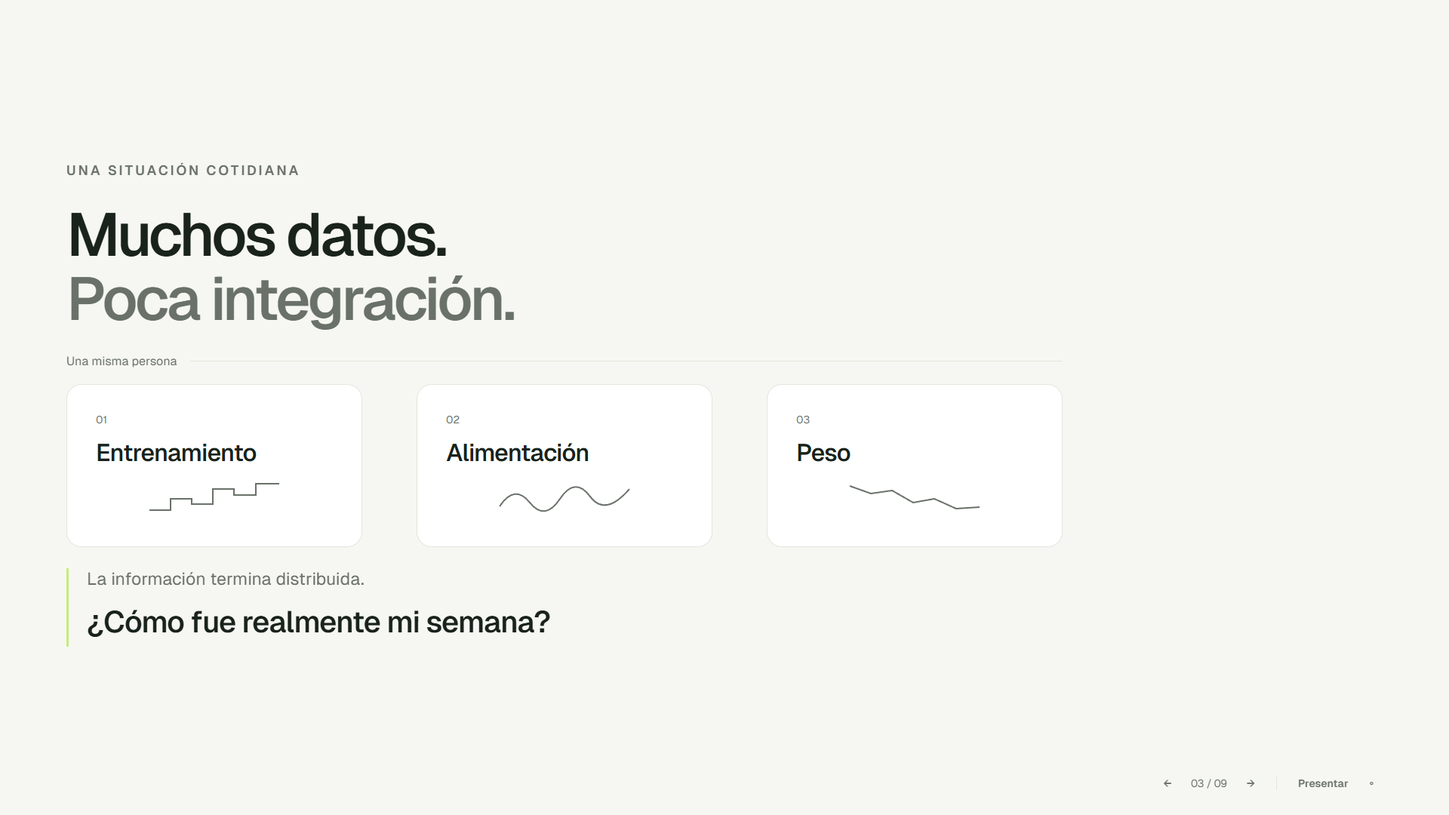
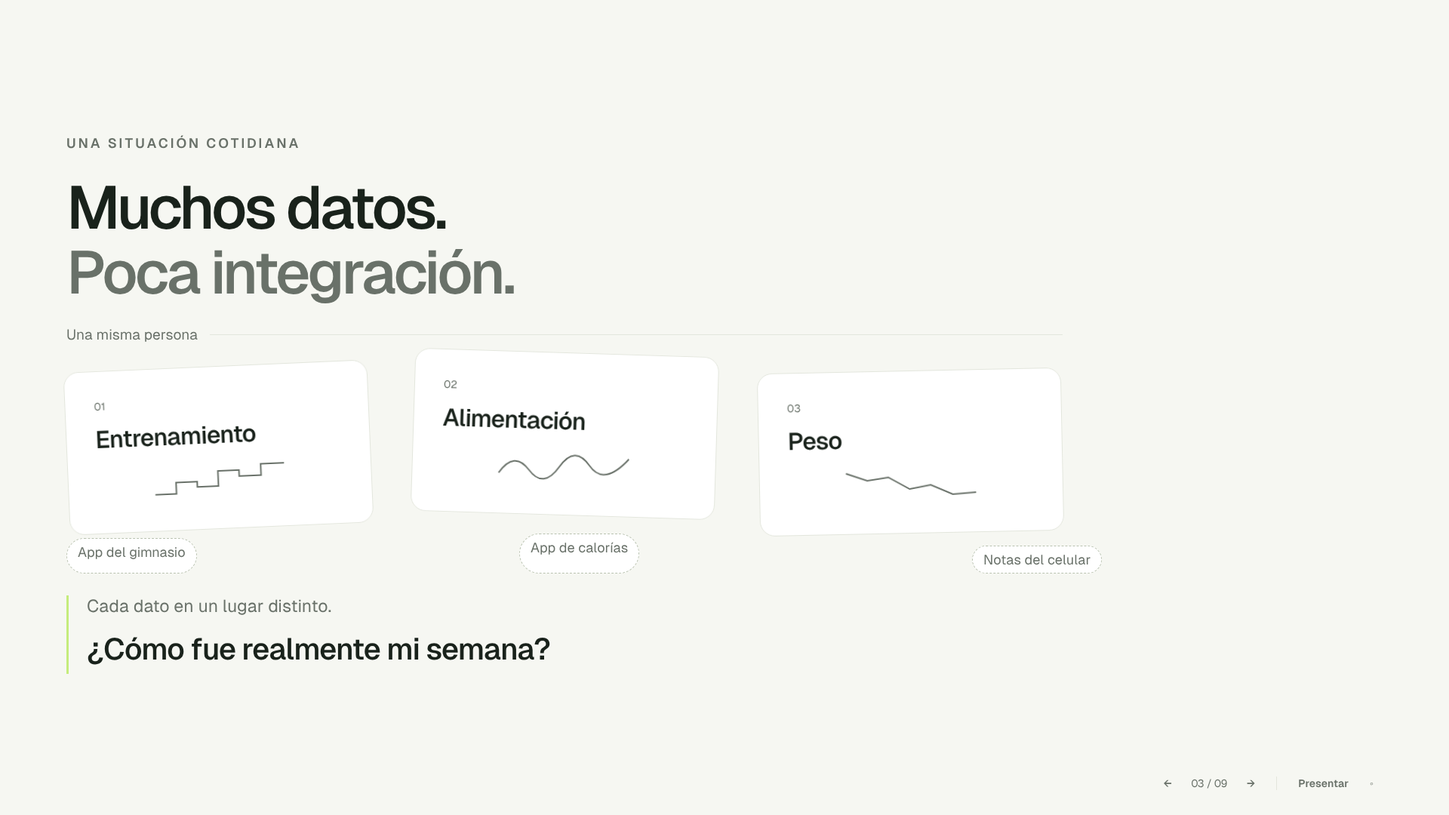
feat(presentation): sell the product with a positive pitch and storytelling motion
- Problem: scattered cards, each in a different app.
- Market: separate apps visually connect in Formance.
- Positioning: 'para vos y para quien te acompaña' instead of a 'Formance no'
  card; limits stay in the notes for questions.
- New slide 07 'Tu semana, en 10 segundos': animated replica of the real
  weekly reading with the demo account numbers.
- Demo: current captures with demo data; closing 'Registrá. Entendé. Mejorá.'
- Scene transition no longer overlaps texts; every sequence is finite and
  reduced motion shows everything at rest. Larger support text for projectors.

Claude-Session: https://claude.ai/code/session_01MCY7Nt7mijxqsgiku96ca1

diff --git a/src/presentation/marketing-deck.tsx b/src/presentation/marketing-deck.tsx
@@ -1,8 +1,9 @@
-import type { ReactNode } from 'react';
+import type { CSSProperties, ReactNode } from 'react';
 import { BigStatement, ScreenshotFrame } from '@/components/presentation/Primitives';
 import { MotionReveal } from '@/components/presentation/Motion';
 import { DemoAccess } from '@/components/presentation/DemoAccess';
 import { Domains } from './Domains';
+import { WeekGlanceDemo } from './WeekGlanceDemo';
 import type { PresentationSlide } from './types';
 
 export const marketingBlocks = [
@@ -19,10 +20,10 @@ function Pitch({ id, label, title, children }: { id: string; label: string; titl
 
 const team = ['Hernán Zamora', 'Matías Duarte Polanco', 'Diego Caminos Picco', 'Nahuel Isaguirre'];
 const productViews = [
-  ['01-perfil-objetivo.png', 'Perfil'],
+  ['01-perfil-objetivo.png', 'Inicio'],
+  ['02-entrenamiento.png', 'Entrenamiento'],
   ['03-alimentacion-ia.png', 'Alimentación'],
-  ['04-peso-progreso.png', 'Progreso'],
-  ['05-reporte-ia.png', 'Resumen semanal'],
+  ['04-peso-progreso.png', 'Peso'],
 ];
 
 // Manual rehearsal estimates only. Demo takes 8–10 minutes outside the deck.
@@ -39,47 +40,52 @@ export const marketingSlides: PresentationSlide[] = [
   },
   {
     id: 'problema', section: marketingBlocks[0].title, title: 'Muchos datos. Poca integración.', speaker: 'Hernán', durationSeconds: 85,
-    notes: ['Una persona puede usar varias herramientas: una para entrenamiento, otra para comidas y otra para peso. El problema no es la falta de aplicaciones, sino la información distribuida.', 'Contar una situación cotidiana: al terminar la semana, tiene datos, pero debe reconstruir qué pasó en cada lugar.', 'La pregunta que buscamos responder es: ¿cómo fue realmente mi semana?', 'El problema existe, pero también existen muchas herramientas que resuelven partes de él. Nahuel les muestra qué encontramos.'],
-    render: <Pitch id="problema" label="UNA SITUACIÓN COTIDIANA" title={<>Muchos datos.<br /><span>Poca integración.</span></>}><Domains /><MotionReveal order={7} className="p-pitch-question"><span>La información termina distribuida.</span><p>¿Cómo fue realmente mi semana?</p></MotionReveal></Pitch>,
+    notes: ['Una persona que entrena en serio suele usar una app para el gimnasio, otra para las calorías y anota el peso en el celular. El problema no es la falta de aplicaciones: la información queda desparramada.', 'Contar una situación cotidiana: al terminar la semana tiene datos, pero tiene que reconstruir qué pasó en cada lugar.', 'La pregunta que buscamos responder es: ¿cómo fue realmente mi semana?', 'El mercado ya resuelve partes de esto. Nahuel les muestra qué encontramos.'],
+    render: <Pitch id="problema" label="UNA SITUACIÓN COTIDIANA" title={<>Muchos datos.<br /><span>Poca integración.</span></>}><div className="p-scattered"><Domains /><div className="p-scattered-sources" aria-hidden="true"><span>App del gimnasio</span><span>App de calorías</span><span>Notas del celular</span></div></div><MotionReveal order={7} className="p-pitch-question"><span>Cada dato en un lugar distinto.</span><p>¿Cómo fue realmente mi semana?</p></MotionReveal></Pitch>,
   },
+
   {
-    id: 'mercado', section: marketingBlocks[1].title, title: 'Buenas herramientas. Experiencias separadas.', speaker: 'Nahuel', durationSeconds: 75,
-    notes: ['Reconocer soluciones valiosas: MyFitnessPal, Fitia, YAZIO y Lifesum como referencias en nutrición/peso; Hevy y Strong en entrenamiento.', 'Son ejemplos de foco de experiencia, no categorías excluyentes ni una auditoría actual de todas sus funciones. No afirmar que no existen productos integrados.', 'No mencionar precios, rankings ni funciones no verificadas. No mostrar matrices.', 'La oportunidad que elegimos es conectar el seguimiento personal en una experiencia simple.'],
-    render: <Pitch id="mercado" label="EL MERCADO YA RESUELVE PARTES DEL PROBLEMA" title={<>Buenas herramientas.<br /><span>Experiencias separadas.</span></>}><div className="p-pitch-market"><div className="p-market-zone p-card"><span className="p-domain-number">01</span><h2>Nutrición / peso</h2><div className="p-pitch-brands"><span>MyFitnessPal</span><span>Fitia</span><span>YAZIO</span><span>Lifesum</span></div></div><div className="p-market-zone p-card"><span className="p-domain-number">02</span><h2>Entrenamiento</h2><div className="p-pitch-brands"><span>Hevy</span><span>Strong</span></div></div></div><MotionReveal order={8} className="p-pitch-opportunity"><span aria-hidden="true">↗</span><p>La oportunidad estaba en conectarlos.</p></MotionReveal></Pitch>,
+    id: 'mercado', section: marketingBlocks[1].title, title: 'Buenas apps. Cada una por su lado.', speaker: 'Nahuel', durationSeconds: 75,
+    notes: ['Reconocer soluciones valiosas: MyFitnessPal, Fitia, YAZIO y Lifesum en nutrición y peso; Hevy y Strong en entrenamiento. Son referencias de foco, no una auditoría de todas sus funciones.', 'Cada una resuelve muy bien su parte. Lo que falta es una vista que conecte las tres y te diga cómo fue tu semana.', 'No mencionar precios, rankings ni funciones no verificadas. No decir que no existen productos integrados.', 'Ahí está nuestra oportunidad: conectar el seguimiento en una experiencia simple.'],
+    render: <Pitch id="mercado" label="EL MERCADO YA RESUELVE PARTES DEL PROBLEMA" title={<>Buenas apps.<br /><span>Cada una por su lado.</span></>}><div className="p-islands"><div className="p-island p-card"><span className="p-domain-number">01</span><h2>Nutrición y peso</h2><div className="p-pitch-brands"><span>MyFitnessPal</span><span>Fitia</span><span>YAZIO</span><span>Lifesum</span></div></div><div className="p-island-link" aria-hidden="true"><i /><i /></div><div className="p-island-hub"><img src="/brand/formance.svg" alt="Formance" /><small>conecta las tres</small></div><div className="p-island-link is-right" aria-hidden="true"><i /><i /></div><div className="p-island p-card"><span className="p-domain-number">02</span><h2>Entrenamiento</h2><div className="p-pitch-brands"><span>Hevy</span><span>Strong</span></div></div></div><MotionReveal order={8} className="p-pitch-opportunity"><span aria-hidden="true">↗</span><p>La oportunidad: una sola vista de tu semana.</p></MotionReveal></Pitch>,
   },
+
   {
-    id: 'posicionamiento', section: marketingBlocks[1].title, title: 'Formance acompaña. No reemplaza.', speaker: 'Nahuel', durationSeconds: 60,
-    notes: ['Explicar en lenguaje cotidiano: Formance organiza registros y ayuda a interpretarlos. No diagnostica, prescribe ni reemplaza nutricionistas, entrenadores o médicos.', 'Los profesionales mantienen su lugar; el usuario llega con información organizada.', 'Con esa oportunidad definida, diseñamos una experiencia mucho más simple.', 'Ahí encontramos nuestra oportunidad: no reemplazar esas herramientas ni profesionales, sino integrar mejor la experiencia. Diego les muestra la propuesta.'],
-    render: <Pitch id="posicionamiento" label="EL LUGAR DE FORMANCE" title={<>Formance acompaña.<br /><span>No reemplaza.</span></>}><div className="p-pitch-care p-motion-stagger"><span>Vos</span><div className="p-pitch-care-brand"><img src="/brand/formance.svg" alt="Formance" /><small>Tu información, organizada</small></div><span>Profesionales</span></div><div className="p-pitch-boundaries p-motion-stagger"><div className="p-card p-pitch-yes"><h2>Formance sí</h2><p>Organiza y centraliza.<br />Muestra evolución.<br />Ayuda a interpretar registros.</p></div><div className="p-card"><h2>Formance no</h2><p>Diagnostica ni prescribe.<br />Reemplaza nutricionistas,<br />entrenadores o médicos.</p></div></div><MotionReveal order={8} className="p-pitch-footnote">Tecnología como herramienta de seguimiento, no como sustituto profesional.</MotionReveal></Pitch>,
+    id: 'posicionamiento', section: marketingBlocks[1].title, title: 'Tu información, organizada. Para vos y para quien te acompaña.', speaker: 'Nahuel', durationSeconds: 60,
+    notes: ['Formance ordena lo que ya registrás y te devuelve una lectura clara de tu semana. Si trabajás con un entrenador o nutricionista, llegás a la consulta con todo resumido.', 'Mensaje positivo: acompaña tu proceso. Si preguntan por límites: Formance no diagnostica, no prescribe ni reemplaza a nutricionistas, entrenadores o médicos; organiza registros y ayuda a interpretarlos.', 'Con esa oportunidad definida, diseñamos una experiencia mucho más simple. Diego les muestra la propuesta.'],
+    render: <Pitch id="posicionamiento" label="EL LUGAR DE FORMANCE" title={<>Tu información, organizada.<br /><span>Para vos y para quien te acompaña.</span></>}><div className="p-care-flow"><div className="p-care-node p-motion-step" style={{ '--step': 0 } as CSSProperties}><span>01</span><strong>Vos</strong><small>Registrás lo que hacés y comés</small></div><i className="p-care-arrow" style={{ '--step': 1 } as CSSProperties} aria-hidden="true" /><div className="p-care-node is-brand p-motion-step" style={{ '--step': 2 } as CSSProperties}><img src="/brand/formance.svg" alt="Formance" /><small>Ordena todo y te muestra tu semana</small></div><i className="p-care-arrow" style={{ '--step': 3 } as CSSProperties} aria-hidden="true" /><div className="p-care-node p-motion-step" style={{ '--step': 4 } as CSSProperties}><span>02</span><strong>Tu entrenador o nutricionista</strong><small>Recibe tu progreso resumido</small></div></div><MotionReveal order={8} className="p-pitch-footnote">Formance acompaña tu proceso: suma claridad, no reemplaza a nadie.</MotionReveal></Pitch>,
   },
+
   {
     id: 'propuesta', section: marketingBlocks[2].title, title: 'Todo tu progreso. En un solo recorrido.', speaker: 'Diego', durationSeconds: 80,
     notes: ['Partimos del perfil y objetivo. Entrenamiento, alimentación y peso se registran en el mismo lugar y se reúnen en el resumen semanal.', 'El apoyo de IA facilita la interpretación. No es el único diferencial; el valor está en la continuidad del recorrido.', 'No hablar de TO-BE, requerimientos, backend ni UML. Contar qué puede hacer una persona desde su punto de partida.', 'Esa idea se convirtió en una experiencia concreta. Matías les muestra cómo la pensamos desde el usuario.'],
-    render: <Pitch id="propuesta" label="LA PROPUESTA" title={<>Todo tu progreso.<br /><span>En un solo recorrido.</span></>}><MotionReveal order={2} className="p-pitch-start"><span>Tu punto de partida</span><strong>Perfil y objetivo</strong></MotionReveal><Domains integrated /><MotionReveal order={8} className="p-pitch-summary"><div><span className="p-domain-number">TU SEMANA, EN PERSPECTIVA</span><h2>Resumen semanal</h2></div><span className="p-pitch-support">+ Apoyo de IA</span></MotionReveal></Pitch>,
+    render: <Pitch id="propuesta" label="LA PROPUESTA" title={<>Todo tu progreso.<br /><span>En un solo recorrido.</span></>}><MotionReveal order={2} className="p-pitch-start"><span>Tu punto de partida</span><strong>Perfil y objetivo</strong></MotionReveal><Domains integrated /><MotionReveal order={8} className="p-pitch-summary"><div><span className="p-domain-number">TODO SE JUNTA EN</span><h2>Tu semana, en 10 segundos</h2></div><span className="p-pitch-support">+ una IA que te lo explica</span></MotionReveal></Pitch>,
   },
   {
-    id: 'experiencia', section: marketingBlocks[2].title, title: 'Menos fricción. Más contexto.', speaker: 'Matías', durationSeconds: 65,
-    notes: ['Tres pilares: registrar lo que realmente hiciste; alimentación manual o asistida por fotografía; peso, resumen y análisis en un mismo recorrido.', 'En la foto: la herramienta propone, vos revisás y confirmás. La carga manual siempre está disponible.', 'Los datos están asociados a la cuenta del usuario. No prometer exportaciones, cifrado o permisos que el producto no implemente.', 'Preparar la demo con una historia de uso; no volver a enumerar todas las funciones.'],
-    render: <Pitch id="experiencia" label="PENSADO DESDE EL USUARIO" title={<>Menos fricción.<br /><span>Más contexto.</span></>}><div className="p-pitch-pillars p-motion-stagger">{[['01', 'Entrenamiento', 'Registrar lo que realmente hiciste.'], ['02', 'Alimentación', 'Manual o asistida por fotografía.'], ['03', 'Progreso', 'Peso + resumen semanal + análisis.']].map(([number, title, copy]) => <div className="p-card" key={title}><span className="p-domain-number">{number}</span><h2>{title}</h2><p>{copy}</p></div>)}</div><div className="p-pitch-rules p-motion-stagger"><p>IA propone → vos confirmás</p><p>Los datos siguen siendo tuyos</p><p>Siempre existe carga manual</p></div></Pitch>,
+    id: 'experiencia', section: marketingBlocks[2].title, title: 'Tu semana, en 10 segundos.', speaker: 'Matías', durationSeconds: 65,
+    notes: ['Este es el corazón del producto. Al abrir tus reportes ves en segundos qué pasó: si cumpliste tu rutina, si comiste en objetivo y cómo se movió tu peso.', 'Abajo, lo que hiciste bien y dónde mejorar, con un solo foco para la semana siguiente. Si querés más detalle, está a un toque; no es lo primero que ves.', 'Registrar es simple: manual o con una foto. La IA propone y vos confirmás; los números los calcula el sistema con tus registros.', 'Los datos de esta slide son los de la cuenta de demostración que van a ver en vivo. Preparar el pase a la demo.'],
+    render: <Pitch id="experiencia" label="LO QUE VE CADA USUARIO" title={<>Tu semana,<br /><span>en 10 segundos.</span></>}><WeekGlanceDemo /><div className="p-pitch-rules p-motion-stagger"><p>Registro manual o con una foto</p><p>La IA propone, vos confirmás</p><p>Calculado con tus propios datos</p></div></Pitch>,
   },
+
   {
     id: 'demo', section: marketingBlocks[3].title, title: 'No quedó en una idea. Lo construimos.', speaker: 'Matías', handoffTo: 'Hernán', durationSeconds: 20,
     notes: [
-      'Traspaso Matías → Hernán. Hasta acá les mostramos la propuesta. Ahora Hernán les va a mostrar el producto funcionando.',
+      'Traspaso Matías → Hernán. Lo que acaban de ver no es un diseño: es la app real. Hernán les muestra Formance funcionando.',
       'Y lo más importante es que no quedó solamente en una propuesta. Ahora Hernán les muestra Formance funcionando.',
       'HERNÁN · DEMO CENTRAL · 8–10 minutos, fuera del contador de slides. La slide permanece en demo hasta volver y avanzar manualmente al cierre.',
       'FLOW 1 · 1–2 min. Cuenta nueva previamente verificada. Mostrar ingreso/registro sin depender de verificar correo en vivo; onboarding con edad, altura, peso, objetivo y actividad; referencia nutricional y pantalla inicial. Este es el punto de partida de cualquier usuario.',
       'FLOW 2 · 3–4 min. Cambiar a cuenta preparada con historia: planificación, sesión, series, repeticiones y carga. Luego diario, calorías/macros y alimentos. Foto: mostrar un resultado ya guardado. Gemini estima → usuario revisa → usuario confirma. No generar ni consumir cupo para ensayar.',
       'PROGRESO · 1 min. Peso, gráfico e historial. Los registros empiezan a formar una evolución, sin interpretar médicamente los cambios.',
-      'RESUMEN · 2–3 min, momento fuerte. Sesiones, series, promedios de alimentación, peso y comparación del reporte. El Balance semanal actual muestra tarjetas, gráficos, Para revisar y Tu próximo paso; abrir el detalle ya guardado para resumen, patrones y aspectos a revisar. Los cálculos los realiza el sistema; Gemini interpreta datos estructurados. Consultar solo resultados existentes y evitar generaciones nuevas.',
-      'No abrir código, consolas, logs, despliegues, respuestas API ni Postman salvo pregunta. No usar datos personales reales. Las capturas son registros reales de una versión anterior; el Balance semanal ya fue rediseñado. Si falla la demo, usar la galería sin llamadas externas.',
+      'RESUMEN · 2–3 min, momento fuerte. Empezar en Mi resumen (hoy y esta semana) y pasar a Reportes: semana del 2/11 = la mejor (4/4, récords, −0,4 kg). Abrir el calendario de semanas y mostrar la del 19/10 en naranja (viaje). En Más detalle: Resumen del mes de octubre y el Análisis escrito ya generado. Los cálculos los realiza el sistema; Gemini interpreta datos estructurados y las notas. Usar análisis ya guardados para no gastar cupo.',
+      'No abrir código, consolas, logs, despliegues, respuestas API ni Postman salvo pregunta. La cuenta usa datos de demostración. Las capturas de respaldo son de la versión actual con esos mismos datos: si falla la demo, usar la galería sin llamadas externas.',
       'Volver a esta pestaña y avanzar al cierre. No hay auto-advance ni temporizador visible. Reservar 2 min de cierre y 2 min de preguntas: alrededor de 20 min junto con 7 min de introducción y 9 min de demo.',
     ],
-    render: <div className="p-pitch p-pitch-demo"><div className="p-pitch-demo-copy"><p className="p-kicker">EL PRODUCTO, FUNCIONANDO</p><BigStatement id="demo">No quedó<br />en una idea.<br /><span>Lo construimos.</span></BigStatement><DemoAccess /></div><div className="p-pitch-product"><MotionReveal order={3} className="p-pitch-product-main"><ScreenshotFrame src="/presentation/demo/02-entrenamiento.png" alt="Vista real de una sesión de entrenamiento en Formance" browser fit="cover" position="top" /><span>Entrenamiento</span></MotionReveal><div className="p-pitch-product-grid p-motion-stagger">{productViews.map(([file, label]) => <figure key={file}><img src={`/presentation/demo/${file}`} alt={`Captura real de Formance: ${label}`} /><figcaption>{label}</figcaption></figure>)}</div></div></div>,
+    render: <div className="p-pitch p-pitch-demo"><div className="p-pitch-demo-copy"><p className="p-kicker">EL PRODUCTO, FUNCIONANDO</p><BigStatement id="demo">No quedó<br />en una idea.<br /><span>Lo construimos.</span></BigStatement><DemoAccess /></div><div className="p-pitch-product"><MotionReveal order={3} className="p-pitch-product-main"><ScreenshotFrame src="/presentation/demo/05-reporte-ia.png" alt="Formance: tu semana en 10 segundos" browser fit="cover" position="top" /><span>Tu semana en 10 segundos</span></MotionReveal><div className="p-pitch-product-grid p-motion-stagger">{productViews.map(([file, label]) => <figure key={file}><img src={`/presentation/demo/${file}`} alt={`Captura de Formance con datos de demostración: ${label}`} /><figcaption>{label}</figcaption></figure>)}</div></div></div>,
   },
   {
-    id: 'cierre', section: marketingBlocks[4].title, title: '¿Logramos el objetivo?', speaker: 'Hernán', theme: 'dark', durationSeconds: 120,
-    notes: ['Después de la demo, responder al objetivo con lo que acabamos de mostrar, sin recapitular el documento.', 'Sí: transformamos registros aislados en una experiencia integrada. Centralizar, acompañar y visualizar progreso.', 'Formance no busca reemplazar cómo entrenamos o quién nos acompaña. Busca que entendamos mejor la información que ya generamos.', 'Cerrar en unos 2 minutos y abrir preguntas. Si preguntan por tecnología, requerimientos o proceso, acceder al backup desde /presentacion/mapa o /presentacion/backup; no forma parte del contador principal.'],
-    render: <><img className="p-closing-watermark" src="/brand/isotype.svg" alt="" aria-hidden="true" /><Pitch id="cierre" label="LO QUE ACABAMOS DE VER" title={<>¿Logramos<br /><span>el objetivo?</span></>}><MotionReveal order={4} className="p-pitch-answer"><p><strong>Sí:</strong> transformamos registros aislados<br />en una experiencia integrada.</p></MotionReveal><div className="p-pitch-closing-pillars p-motion-stagger"><p>Centralizar</p><p>Acompañar</p><p>Visualizar progreso</p></div><MotionReveal order={7} className="p-pitch-closing-copy">Formance no busca reemplazar cómo entrenamos o quién nos acompaña.<br />Busca que entendamos mejor la información que ya generamos.</MotionReveal><MotionReveal order={8} className="p-pitch-thanks"><img src="/brand/formance-white.svg" alt="Formance" /><p>Gracias. <span>¿Preguntas?</span></p></MotionReveal></Pitch></>,
+    id: 'cierre', section: marketingBlocks[4].title, title: 'Registrá. Entendé. Mejorá.', speaker: 'Hernán', theme: 'dark', durationSeconds: 120,
+    notes: ['Después de la demo, responder al objetivo con lo que acabamos de mostrar, sin recapitular el documento.', 'Sí: transformamos registros aislados en una experiencia integrada. Todo en un lugar, tu semana en 10 segundos y tu progreso a la vista.', 'Formance no busca reemplazar cómo entrenamos o quién nos acompaña. Busca que entendamos mejor la información que ya generamos.', 'Cerrar en unos 2 minutos y abrir preguntas. Si preguntan por tecnología, requerimientos o proceso, acceder al backup desde /presentacion/mapa o /presentacion/backup; no forma parte del contador principal.'],
+    render: <><img className="p-closing-watermark" src="/brand/isotype.svg" alt="" aria-hidden="true" /><Pitch id="cierre" label="LO QUE ACABAMOS DE VER" title={<>Registrá. Entendé.<br /><span>Mejorá.</span></>}><MotionReveal order={4} className="p-pitch-answer"><p><strong>Objetivo cumplido:</strong> transformamos registros aislados<br />en una experiencia integrada.</p></MotionReveal><div className="p-pitch-closing-pillars p-motion-stagger"><p>Todo en un lugar</p><p>Tu semana en 10 segundos</p><p>Tu progreso, a la vista</p></div><MotionReveal order={7} className="p-pitch-closing-copy">Para que entiendas mejor la información que ya generás, semana a semana.</MotionReveal><MotionReveal order={8} className="p-pitch-thanks"><img src="/brand/formance-white.svg" alt="Formance" /><p>Gracias. <span>¿Preguntas?</span></p></MotionReveal></Pitch></>,
   },
+
 ];

diff --git a/src/presentation/marketing-deck.css b/src/presentation/marketing-deck.css
@@ -214,3 +214,141 @@
 .p-thumbnail-stage .p-pitch-market,.p-thumbnail-stage .p-pitch-boundaries { grid-template-columns:1fr 1fr; }
 .p-thumbnail-stage .p-pitch-pillars,.p-thumbnail-stage .p-pitch-rules { grid-template-columns:repeat(3,minmax(0,1fr)); }
 .p-thumbnail-stage .p-pitch-demo { grid-template-columns:minmax(0,.85fr) minmax(0,1.35fr); }
+
+/* ===== Pulido de la defensa final ===== */
+/* Proyector: ningún texto de apoyo por debajo de ~18px a 1920. */
+.p-pitch .p-person { font-size:clamp(15px,1.05vw,19px); }
+.p-pitch-product-grid figcaption { font-size:clamp(14px,1vw,18px); }
+.p-pitch-demo .p-demo-backup { font-size:clamp(15px,1vw,18px); }
+
+/* 03 · Problema: datos desparramados en lugares distintos. */
+.p-scattered { position:relative; }
+.p-scattered .p-domain-row { gap:clamp(28px,3vw,56px); }
+.p-scattered .p-domain:nth-child(1) { rotate:-2.5deg; translate:0 10px; }
+.p-scattered .p-domain:nth-child(2) { rotate:1.8deg; translate:0 -8px; }
+.p-scattered .p-domain:nth-child(3) { rotate:-1.2deg; translate:0 16px; }
+.p-scattered-sources { display:grid; grid-template-columns:repeat(3,minmax(0,1fr)); gap:clamp(28px,3vw,56px); margin-top:22px; }
+.p-scattered-sources span { justify-self:start; padding:6px 14px; border:1.5px dashed #b9c2b0; border-radius:30px; font-size:clamp(14px,1vw,18px); color:var(--presentation-muted); background:#fff; }
+.p-scattered-sources span:nth-child(2) { margin-top:-6px; } .p-scattered-sources span:nth-child(3) { margin-top:10px; }
+
+/* 04 · Mercado: islas que se conectan en Formance. */
+.p-islands { display:grid; grid-template-columns:minmax(0,1.5fr) minmax(40px,.4fr) auto minmax(40px,.4fr) minmax(0,1fr); align-items:center; }
+.p-island { padding:26px 30px; }
+.p-island h2 { margin:14px 0 18px; }
+.p-island-link { position:relative; height:2px; }
+.p-island-link i { position:absolute; inset:0; background:repeating-linear-gradient(90deg,var(--presentation-accent) 0 10px,transparent 10px 18px); transform-origin:left; }
+.p-island-link.is-right i { transform-origin:right; }
+.p-island-link i+i { display:none; }
+.p-island-hub { display:grid; justify-items:center; gap:8px; padding:22px 26px; border-radius:22px; background:#eaf0e0; border:1.5px solid #b2cb8d; box-shadow:0 18px 40px #19221b14; }
+.p-island-hub img { width:clamp(150px,12vw,220px); }
+.p-island-hub small { font-size:clamp(14px,1vw,18px); color:#425c2a; font-weight:600; }
+
+/* 05 · Posicionamiento: vos → Formance → tu profesional. */
+.p-care-flow { display:grid; grid-template-columns:minmax(0,1fr) 70px minmax(0,1.2fr) 70px minmax(0,1fr); align-items:center; }
+.p-care-node { display:grid; gap:8px; padding:26px 28px; border:1px solid var(--presentation-border); border-radius:20px; background:#fff; min-width:0; }
+.p-care-node span { font-size:clamp(13px,.9vw,16px); letter-spacing:.12em; color:var(--presentation-muted); }
+.p-care-node strong { font-size:clamp(24px,2vw,36px); font-weight:600; letter-spacing:-.03em; line-height:1.15; }
+.p-care-node small { font-size:clamp(17px,1.25vw,23px); color:var(--presentation-muted); line-height:1.35; }
+.p-care-node.is-brand { justify-items:center; text-align:center; background:#eaf0e0; border-color:#b2cb8d; padding:34px 28px; }
+.p-care-node.is-brand img { width:clamp(180px,15vw,280px); }
+.p-care-node.is-brand small { color:#425c2a; }
+.p-care-arrow { position:relative; height:2px; margin-inline:10px; background:var(--presentation-ink,#141b15); }
+.p-care-arrow::after { content:''; position:absolute; right:-2px; top:-6px; border:7px solid transparent; border-left:10px solid var(--presentation-ink,#141b15); border-right:0; }
+
+/* 07 · Tu semana en 10 segundos (réplica de la lectura real). */
+.wg { display:grid; gap:clamp(12px,1.4vh,18px); }
+.wg-head { position:relative; padding:18px 24px 18px 30px; border-radius:18px; background:linear-gradient(120deg,#f1f8e6,#fff 70%); border:1px solid var(--presentation-border); overflow:hidden; }
+.wg-head::before { content:''; position:absolute; inset:0 auto 0 0; width:6px; background:#7fae3c; }
+.wg-eyebrow { font-size:clamp(11px,.75vw,14px); letter-spacing:.14em; color:var(--presentation-muted); }
+.wg-head strong { display:block; margin:4px 0 2px; font-size:clamp(26px,2.1vw,38px); letter-spacing:-.03em; font-weight:600; }
+.wg-head p { margin:0; font-size:clamp(16px,1.15vw,21px); color:#3c463c; }
+.wg-head b { font-weight:600; color:#a2401c; }
+.wg-cards { display:grid; grid-template-columns:repeat(3,minmax(0,1fr)); gap:clamp(12px,1vw,18px); }
+.wg-card { display:flex; flex-direction:column; min-width:0; padding:18px 20px; border-radius:18px; background:#fff; border:1px solid var(--presentation-border); }
+.wg-card header { display:flex; justify-content:space-between; align-items:center; font-size:clamp(15px,1.05vw,19px); font-weight:600; }
+.wg-card header em { font-style:normal; font-size:clamp(12px,.8vw,15px); padding:4px 10px; border-radius:20px; background:#e8f3d8; color:#3f6a17; }
+.wg-card>strong { margin-top:10px; font-size:clamp(34px,2.8vw,52px); letter-spacing:-.04em; font-weight:600; line-height:1; font-variant-numeric:tabular-nums; }
+.wg-card>strong small { font-size:.42em; letter-spacing:0; color:var(--presentation-muted); font-weight:500; }
+.wg-card>small { margin-top:4px; font-size:clamp(13px,.9vw,16px); color:var(--presentation-muted); }
+.wg-dots { list-style:none; margin:16px 0 6px; padding:0; display:grid; grid-template-columns:repeat(7,minmax(0,1fr)); gap:6px; }
+.wg-dots li { display:grid; justify-items:center; gap:4px; }
+.wg-dots li>span { display:grid; place-items:center; width:100%; max-width:38px; aspect-ratio:1; border-radius:50%; background:#7fae3c; color:#fff; font-weight:700; font-size:clamp(13px,.9vw,16px); }
+.wg-dots .is-rest>span { transform:scale(.4); background:#dfe3da; }
+.wg-dots small { font-size:clamp(11px,.7vw,13px); color:var(--presentation-muted); }
+.wg-bars { position:relative; display:grid; grid-template-columns:repeat(7,minmax(0,1fr)); gap:6px; height:clamp(70px,8vh,96px); margin:16px 0 22px; }
+.wg-bars>div { position:relative; display:flex; align-items:flex-end; height:100%; border-radius:6px; background:#f4f5f1; }
+.wg-bars>div>span { display:block; width:100%; border-radius:6px; background:#9cc265; transform-origin:bottom; }
+.wg-bars .is-over>span { background:#e4a25f; }
+.wg-bars small { position:absolute; bottom:-18px; left:0; right:0; text-align:center; font-size:clamp(11px,.7vw,13px); color:var(--presentation-muted); }
+.wg-target { position:absolute; left:-4px; right:-4px; z-index:1; border-top:2px dashed #46523f; }
+.wg-line { width:100%; height:clamp(56px,7vh,80px); margin:16px 0 6px; overflow:visible; }
+.wg-line polyline { fill:none; stroke:#5f7f8f; stroke-width:3; stroke-linecap:round; stroke-linejoin:round; }
+.wg-line circle { fill:#5f7f8f; }
+.wg-record { margin:auto 0 0; padding-top:10px; font-size:clamp(14px,1vw,18px); color:#4d564d; }
+.wg-record b { color:var(--presentation-ink,#141b15); font-weight:600; }
+.wg-record i { font-style:normal; color:#3f6a17; font-weight:650; margin-left:4px; }
+.wg-lists { display:grid; grid-template-columns:minmax(0,1.3fr) minmax(0,1fr); gap:clamp(12px,1vw,18px); }
+.wg-wins { list-style:none; margin:0; padding:16px 20px; display:grid; gap:10px; border-radius:18px; background:#fff; border:1px solid var(--presentation-border); }
+.wg-wins li { display:flex; gap:12px; align-items:center; font-size:clamp(15px,1.1vw,20px); }
+.wg-wins li span { display:grid; place-items:center; flex-shrink:0; width:26px; height:26px; border-radius:50%; background:#e3f0cf; color:#3f6a17; font-size:13px; font-weight:700; }
+.wg-focus { display:grid; align-content:center; gap:6px; padding:18px 22px; border-radius:18px; background:#141b15; color:#fff; }
+.wg-focus span { font-size:clamp(11px,.75vw,14px); letter-spacing:.14em; color:#c5ec7c; }
+.wg-focus strong { font-size:clamp(17px,1.3vw,24px); font-weight:600; line-height:1.35; }
+.p-pitch-experiencia .p-statement { font-size:clamp(36px,3.4vw,64px)!important; }
+.p-pitch-experiencia { gap:clamp(14px,1.8vh,24px)!important; }
+.p-pitch-experiencia .p-pitch-rules p { font-size:clamp(15px,1.05vw,19px); padding-top:10px; }
+
+/* Movimiento: cada animación cuenta algo y termina; con movimiento reducido todo aparece quieto. */
+@media(prefers-reduced-motion:no-preference) {
+ .p-scene .p-scattered .p-domain { animation:p-scatter-in 700ms cubic-bezier(.22,1,.36,1) both; animation-delay:calc(260ms + var(--motion-order,0) * 1ms); }
+ .p-scene .p-scattered .p-domain:nth-child(2) { animation-delay:380ms; } .p-scene .p-scattered .p-domain:nth-child(3) { animation-delay:500ms; }
+ .p-scene .p-scattered-sources span { animation:p-pop 420ms cubic-bezier(.22,1,.36,1) both; }
+ .p-scene .p-scattered-sources span:nth-child(1) { animation-delay:780ms; } .p-scene .p-scattered-sources span:nth-child(2) { animation-delay:880ms; } .p-scene .p-scattered-sources span:nth-child(3) { animation-delay:980ms; }
+ .p-scene .p-island { animation:p-content-rise 560ms cubic-bezier(.22,1,.36,1) 250ms both; }
+ .p-scene .p-island:last-child { animation-delay:350ms; }
+ .p-scene .p-island-link i { animation:p-draw-x 520ms cubic-bezier(.22,1,.36,1) 760ms both; }
+ .p-scene .p-island-hub { animation:p-hub-arrive 620ms cubic-bezier(.22,1.3,.36,1) 1150ms both; }
+ .p-scene .p-care-node { animation:p-content-rise 520ms cubic-bezier(.22,1,.36,1) both; animation-delay:calc(240ms + var(--step) * 220ms); }
+ .p-scene .p-care-arrow { animation:p-draw-x 420ms cubic-bezier(.22,1,.36,1) both; animation-delay:calc(240ms + var(--step) * 220ms); transform-origin:left; }
+ .p-scene .wg-head { animation:p-content-rise 520ms cubic-bezier(.22,1,.36,1) 180ms both; }
+ .p-scene .wg-card { animation:p-content-rise 520ms cubic-bezier(.22,1,.36,1) both; }
+ .p-scene .wg-card:nth-child(1) { animation-delay:300ms; } .p-scene .wg-card:nth-child(2) { animation-delay:420ms; } .p-scene .wg-card:nth-child(3) { animation-delay:540ms; }
+ .p-scene .wg-dots li>span { animation:p-pop 380ms cubic-bezier(.22,1.4,.36,1) both; animation-delay:calc(700ms + var(--i) * 110ms); }
+ .p-scene .wg-dots .is-rest>span { animation-name:p-pop-rest; }
+ .p-scene .wg-bars>div>span { animation:p-grow-y 620ms cubic-bezier(.22,1,.36,1) both; animation-delay:calc(800ms + var(--i) * 90ms); }
+ .p-scene .wg-target { animation:p-draw-x 600ms cubic-bezier(.22,1,.36,1) 700ms both; transform-origin:left; }
+ .p-scene .wg-line polyline { stroke-dasharray:420; animation:p-draw-line 1100ms cubic-bezier(.45,0,.2,1) 900ms both; }
+ .p-scene .wg-line circle { animation:p-pop 300ms cubic-bezier(.22,1.4,.36,1) both; animation-delay:calc(950ms + var(--i) * 330ms); transform-box:fill-box; transform-origin:center; }
+ .p-scene .wg-wins { animation:p-content-rise 480ms cubic-bezier(.22,1,.36,1) 1400ms both; }
+ .p-scene .wg-wins li { animation:p-slide-in 460ms cubic-bezier(.22,1,.36,1) both; animation-delay:calc(1550ms + var(--i) * 140ms); }
+ .p-scene .wg-focus { animation:p-content-rise 560ms cubic-bezier(.22,1,.36,1) 2000ms both; }
+}
+@keyframes p-scatter-in { from { opacity:0; translate:var(--from-x,0) 40px; rotate:-8deg; } }
+@keyframes p-pop { from { opacity:0; transform:scale(.6); } to { opacity:1; transform:scale(1); } }
+@keyframes p-pop-rest { from { opacity:0; transform:scale(.1); } to { opacity:1; transform:scale(.4); } }
+@keyframes p-grow-y { from { transform:scaleY(0); } to { transform:scaleY(1); } }
+@keyframes p-draw-x { from { transform:scaleX(0); } to { transform:scaleX(1); } }
+@keyframes p-draw-line { from { stroke-dashoffset:420; } to { stroke-dashoffset:0; } }
+@keyframes p-slide-in { from { opacity:0; transform:translateX(-16px); } to { opacity:1; transform:none; } }
+@keyframes p-hub-arrive { from { opacity:0; transform:scale(.85); } to { opacity:1; transform:none; } }
+@media(max-width:900px) {
+ .p-islands,.p-care-flow { grid-template-columns:1fr; gap:14px; } .p-island-link,.p-care-arrow { display:none; }
+ .wg-cards,.wg-lists,.p-scattered-sources { grid-template-columns:1fr; } .p-scattered-sources { display:none; }
+}
+/* La lectura de la slide 07 se adapta al alto disponible (proyectores 768–1080 px). */
+.wg-card>strong { font-size:clamp(28px,4.4vh,52px); margin-top:6px; }
+.wg-head { padding-block:clamp(10px,1.4vh,18px); }
+.wg-head strong { font-size:clamp(22px,3.2vh,38px); }
+.wg-bars { height:clamp(44px,7.5vh,96px); margin:clamp(10px,1.3vh,16px) 0 20px; }
+.wg-line { height:clamp(40px,6.5vh,80px); margin:clamp(8px,1.3vh,16px) 0 4px; }
+.wg-dots { margin:clamp(8px,1.3vh,16px) 0 4px; }
+.wg-dots li>span { max-width:clamp(24px,3.4vh,38px); }
+.wg-card { padding:clamp(12px,1.5vh,18px) 20px; }
+.wg-wins { padding:clamp(10px,1.4vh,16px) 20px; gap:clamp(6px,.9vh,10px); }
+.wg-focus { padding:clamp(12px,1.5vh,18px) 22px; }
+@media(max-height:820px) and (min-width:901px) { .p-pitch-experiencia .p-pitch-rules,.wg-head p { display:none; } }
+@media(max-width:900px) { .p-island { padding:16px 18px; } .p-island h2 { margin:8px 0 10px; } .p-island-hub { padding:12px 18px; } .p-pitch-mercado .p-pitch-opportunity { font-size:22px; } .p-pitch-brands>span { font-size:16px; padding:6px 10px; } }
+@media(max-width:900px) {
+ .wg-cards { grid-template-columns:repeat(3,minmax(0,1fr)); gap:8px; } .wg-card { padding:10px; } .wg-card header em,.wg-dots,.wg-bars,.wg-line,.wg-record,.wg-card>small { display:none; }
+ .wg-card header { font-size:12px; } .wg-card>strong { font-size:24px; } .wg-head p,.wg-wins,.p-pitch-experiencia .p-pitch-rules { display:none; } .wg-lists { grid-template-columns:1fr; }
+}

diff --git a/src/presentation/WeekGlanceDemo.tsx b/src/presentation/WeekGlanceDemo.tsx
@@ -1,0 +1,54 @@
+'use client';
+import { useEffect, useState, type CSSProperties } from 'react';
+
+// Réplica estática de la lectura semanal real (semana del 2/11 de la cuenta demo),
+// animada para la presentación. No consulta la API.
+const days = ['L', 'M', 'X', 'J', 'V', 'S', 'D'];
+const trained = [true, true, false, true, true, false, false];
+const kcal = [2556, 2563, 2521, 2593, 2692, 3451, 2909];
+const target = 2596;
+const weights = [78.8, 78.6, 78.5, 78.6];
+const max = 3600;
+
+function CountUp({ to, from = 0, decimals = 0, delay = 0 }: { to: number; from?: number; decimals?: number; delay?: number }) {
+  const format = (value: number) => new Intl.NumberFormat('es-AR', { minimumFractionDigits: decimals, maximumFractionDigits: decimals }).format(value);
+  const [value, setValue] = useState(to);
+  useEffect(() => {
+    if (window.matchMedia('(prefers-reduced-motion: reduce)').matches) return;
+    let frame = 0; const start = performance.now() + delay; const duration = 900;
+    setValue(from);
+    const tick = (now: number) => {
+      const t = Math.min(1, Math.max(0, (now - start) / duration));
+      setValue(from + (to - from) * (1 - Math.pow(1 - t, 3)));
+      if (t < 1) frame = requestAnimationFrame(tick);
+    };
+    frame = requestAnimationFrame(tick);
+    return () => cancelAnimationFrame(frame);
+  }, [to, from, delay]);
+  return <>{format(value)}</>;
+}
+
+export function WeekGlanceDemo() {
+  const low = Math.min(...weights); const span = Math.max(...weights) - low || 1;
+  const points = weights.map((kg, i) => `${6 + (i / (weights.length - 1)) * 348},${60 - ((kg - low) / span) * 48}`).join(' ');
+  return <div className="wg" aria-label="Ejemplo de la lectura semanal de Formance">
+    <div className="wg-head"><span className="wg-eyebrow">TU SEMANA EN 10 SEGUNDOS</span><strong>Muy buena semana</strong>
+      <p>Cumpliste tu rutina, subiste cargas y comiste en objetivo la mayoría de los días. <b>Para ajustar: el fin de semana.</b></p></div>
+    <div className="wg-cards">
+      <article className="wg-card"><header><span>Entrenamiento</span><em>Bien</em></header><strong><CountUp to={4} delay={350} /><small>/4</small></strong><small>días planificados</small>
+        <ol className="wg-dots">{days.map((day, i) => <li key={day} className={trained[i] ? 'is-done' : 'is-rest'} style={{ '--i': i } as CSSProperties}><span>{trained[i] ? '✓' : ''}</span><small>{day}</small></li>)}</ol>
+        <p className="wg-record">Sentadilla <b>90 kg</b> <i>+2,5</i></p></article>
+      <article className="wg-card"><header><span>Alimentación</span><em>Bien</em></header><strong><CountUp to={2755} from={1800} delay={500} /><small> kcal</small></strong><small>promedio · objetivo 2.596</small>
+        <div className="wg-bars"><i className="wg-target" style={{ bottom: `${(target / max) * 100}%` }} />
+          {kcal.map((value, i) => <div key={i} className={value > target * 1.1 ? 'is-over' : 'is-on'} style={{ '--i': i } as CSSProperties}><span style={{ height: `${(value / max) * 100}%` }} /><small>{days[i]}</small></div>)}</div>
+        <p className="wg-record">En objetivo <b>5 de 7 días</b></p></article>
+      <article className="wg-card"><header><span>Peso</span><em>Bien</em></header><strong><CountUp to={78.6} from={79.2} decimals={1} delay={900} /><small> kg</small></strong><small>promedio semanal</small>
+        <svg className="wg-line" viewBox="0 0 360 70" preserveAspectRatio="none" aria-hidden="true"><polyline points={points} />{weights.map((kg, i) => <circle key={i} cx={6 + (i / (weights.length - 1)) * 348} cy={60 - ((kg - low) / span) * 48} r="4" style={{ '--i': i } as CSSProperties} />)}</svg>
+        <p className="wg-record"><b>−0,4 kg</b> vs semana anterior</p></article>
+    </div>
+    <div className="wg-lists">
+      <ul className="wg-wins"><li style={{ '--i': 0 } as CSSProperties}><span>✓</span>4 de 4 entrenamientos y cargas en subida</li><li style={{ '--i': 1 } as CSSProperties}><span>✓</span>Proteína en objetivo 6 de 7 días</li><li style={{ '--i': 2 } as CSSProperties}><span>✓</span>Peso promedio −0,4 kg</li></ul>
+      <div className="wg-focus"><span>FOCO PARA LA PRÓXIMA SEMANA</span><strong>Planificá una comida del fin de semana con anticipación.</strong></div>
+    </div>
+  </div>;
+}

diff --git a/src/presentation/motion-5.css b/src/presentation/motion-5.css
@@ -15,14 +15,15 @@ html[data-presentation-direction="backward"] .p-scene { --motion-direction:-1; }
  to {opacity:1;transform:none}
 }
 /* Forward and backward snapshots keep the same visual direction as the input. */
-::view-transition-old(formance-scene) {animation:p-scene-depart 420ms var(--motion-ease,cubic-bezier(.22,1,.36,1)) both}
-::view-transition-new(formance-scene) {animation:p-snapshot-arrive 520ms cubic-bezier(.22,1,.36,1) both}
-@keyframes p-scene-depart {to {opacity:0;transform:translateX(-32px) scale(.985)}}
-@keyframes p-snapshot-arrive {from {opacity:0;transform:translateX(32px) scale(.99)}to{opacity:1;transform:none}}
+/* La escena anterior se va rápido y recién después entra la nueva: nunca se superponen textos. */
+::view-transition-old(formance-scene) {animation:p-scene-depart 220ms cubic-bezier(.4,0,1,1) both}
+::view-transition-new(formance-scene) {animation:p-snapshot-arrive 480ms cubic-bezier(.22,1,.36,1) 150ms both}
+@keyframes p-scene-depart {to {opacity:0;transform:translateX(-24px)}}
+@keyframes p-snapshot-arrive {from {opacity:0;transform:translateX(28px)}to{opacity:1;transform:none}}
 html[data-presentation-direction="backward"]::view-transition-old(formance-scene) {animation-name:p-snapshot-back-out}
 html[data-presentation-direction="backward"]::view-transition-new(formance-scene) {animation-name:p-snapshot-back-in}
-@keyframes p-snapshot-back-out {to{opacity:0;transform:translateX(32px) scale(.985)}}
-@keyframes p-snapshot-back-in {from{opacity:0;transform:translateX(-32px) scale(.99)}to{opacity:1;transform:none}}
+@keyframes p-snapshot-back-out {to{opacity:0;transform:translateX(24px)}}
+@keyframes p-snapshot-back-in {from{opacity:0;transform:translateX(-28px)}to{opacity:1;transform:none}}
 /* 03 → 04: the same domain cards travel into the integrated composition. */
 @media(prefers-reduced-motion:no-preference) {
  .p-scene:is([data-scene="problema"],[data-scene="vision-objetivos"]) .p-domain:nth-child(1){view-transition-name:formance-training}

diff --git a/src/components/presentation/DemoAccess.tsx b/src/components/presentation/DemoAccess.tsx
@@ -1,11 +1,11 @@
 'use client';
 import { useRef, useState } from 'react';
 const captures = [
-  ['01-perfil-objetivo.png','Perfil y objetivo · captura E4'],
+  ['01-perfil-objetivo.png','Inicio: hoy y esta semana'],
   ['02-entrenamiento.png','Entrenamiento registrado'],
-  ['03-alimentacion-ia.png','Alimentación e interpretación asistida'],
-  ['04-peso-progreso.png','Peso y progreso'],
-  ['05-reporte-ia.png','Reporte semanal y análisis guardado'],
+  ['03-alimentacion-ia.png','Alimentación del día frente al objetivo'],
+  ['04-peso-progreso.png','Peso y evolución'],
+  ['05-reporte-ia.png','Tu semana en 10 segundos'],
 ];
 export function DemoAccess() {
   const dialog = useRef<HTMLDialogElement>(null);

diff --git a/docs/presentation/PITCH_POLISH_REPORT.md b/docs/presentation/PITCH_POLISH_REPORT.md
@@ -1,0 +1,26 @@
+# Pulido del pitch final
+
+Rama: `feature/presentation-polish`. Se conservan los 9 slides, sus IDs, expositores y tiempos de ensayo.
+
+| # | Antes | Ahora |
+| --- | --- | --- |
+| 03 | Tres tarjetas prolijas | Datos desparramados: tarjetas giradas, cada una en “otra app” (gimnasio, calorías, notas) |
+| 04 | Dos zonas de marcas | “Buenas apps. Cada una por su lado.”: islas que se conectan en Formance |
+| 05 | “Formance sí / Formance no” | “Tu información, organizada. Para vos y para quien te acompaña.”: Vos → Formance → tu profesional. Los límites quedan en notes para preguntas |
+| 06 | Resumen semanal + Apoyo de IA | Todo se junta en “Tu semana, en 10 segundos” + “una IA que te lo explica” |
+| 07 | Pilares y reglas en texto | **“Tu semana, en 10 segundos”**: réplica animada de la lectura real (semana del 2/11 de la cuenta demo) |
+| 08 | Capturas de una versión anterior | Capturas actuales con datos de demostración; principal: la lectura semanal |
+| 09 | “¿Logramos el objetivo?” | “Registrá. Entendé. Mejorá.” manteniendo “Objetivo cumplido” y ¿Preguntas? |
+
+## Movimiento
+
+- Transición entre escenas: la anterior sale en 220 ms y la nueva entra desde los 150 ms; ya no se superponen textos.
+- Cada animación cuenta algo: el problema se desordena, el mercado se conecta, el posicionamiento avanza de izquierda a derecha y la lectura se arma (días que se marcan, barras hasta la línea del objetivo, el peso que se dibuja, logros y foco).
+- Todas son finitas y nunca avanzan de slide. Con movimiento reducido, todo aparece quieto y completo.
+
+## Validación
+
+`npm test`, `npm run typecheck`, `npm run build` y Playwright de presentación 16/16 (encaje a 1920×1080, 1440×900,
+1366×768 y 390×844, teclado, rueda, swipe, galería, reduced motion y secuencias). Previews regeneradas en `previews/`.
+Los números de la slide 07 coinciden con la cuenta demo: 4/4 entrenamientos, 2.755 kcal (objetivo 2.596),
+en objetivo 5 de 7 días, proteína 6 de 7 días, 78,6 kg (−0,4 kg).
